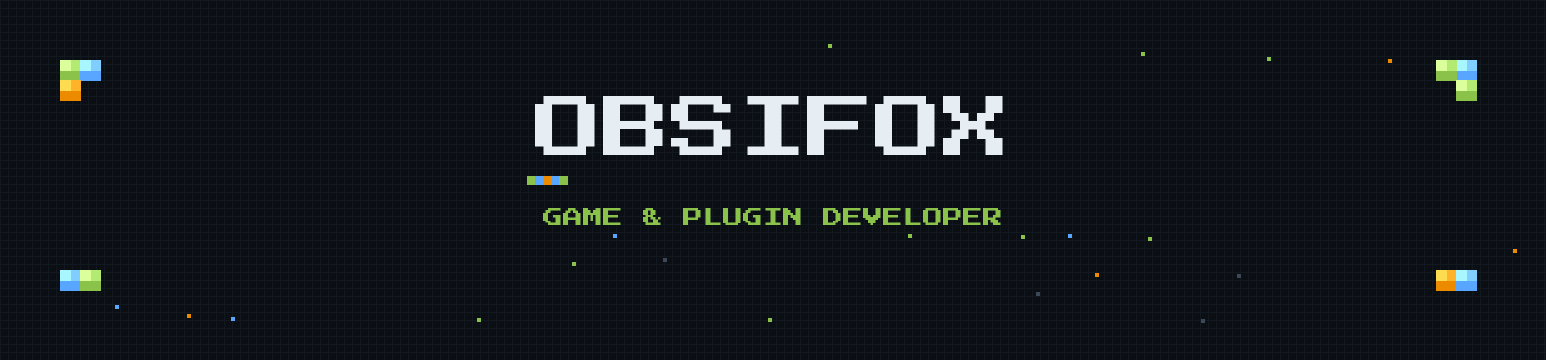
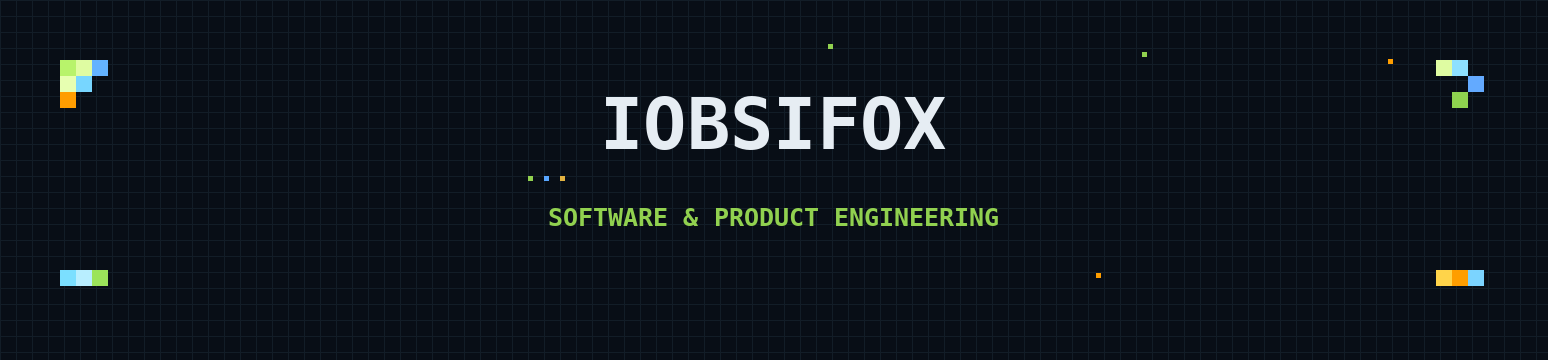
Standardize the Iobsifox brand identity

diff --git a/README.md b/README.md
@@ -1,14 +1,14 @@
 <div align="center">
 
-<img src="banner.png" width="100%" alt="OBSIFOX — Software, Commerce and Connected Systems" />
+<img src="banner.png" width="100%" alt="Iobsifox — Software, Commerce and Connected Systems" />
 
-# OBSIFOX
+# Iobsifox
 
 ## Product engineering for commerce, support and connected applications
 
-Obsifox develops WordPress and WooCommerce products, cross-platform applications, release infrastructure and game integrations.
+Iobsifox develops WordPress and WooCommerce products, cross-platform applications, release infrastructure and game integrations.
 
-Staffwind is the product and application publishing division of Obsifox.
+Staffwind is the product and application publishing division of Iobsifox.
 
 </div>
 
@@ -123,6 +123,6 @@ Public repositories contain product documentation, distributable files, checksum
 <img src="https://github-readme-stats.vercel.app/api?username=iobsifox&show_icons=true&theme=github_dark&hide_border=true&bg_color=0d1117&title_color=58a6ff&icon_color=58a6ff&text_color=c9d1d9" height="165" alt="GitHub statistics" />
 <img src="https://github-readme-stats.vercel.app/api/top-langs/?username=iobsifox&layout=compact&theme=github_dark&hide_border=true&bg_color=0d1117&title_color=58a6ff&text_color=c9d1d9&hide=html" height="165" alt="Top languages" />
 
-Obsifox Studio · Staffwind product division
+Iobsifox Studio · Staffwind product division
 
 </div>
